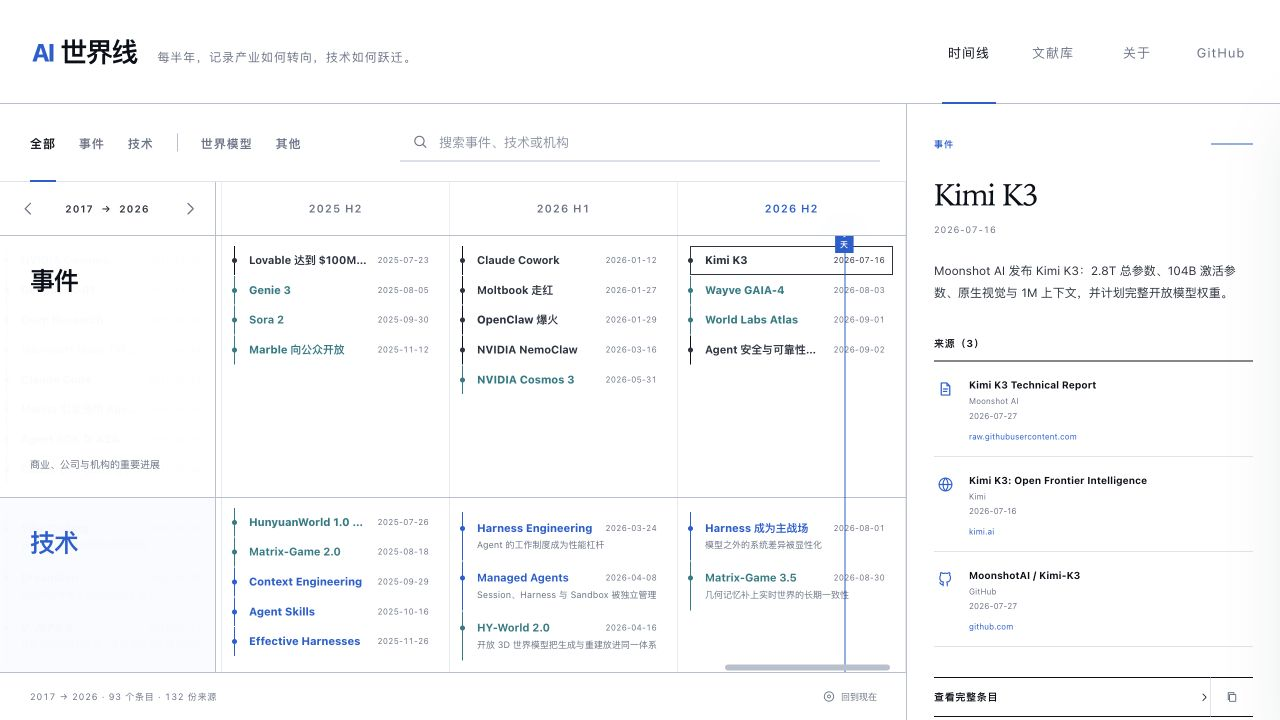
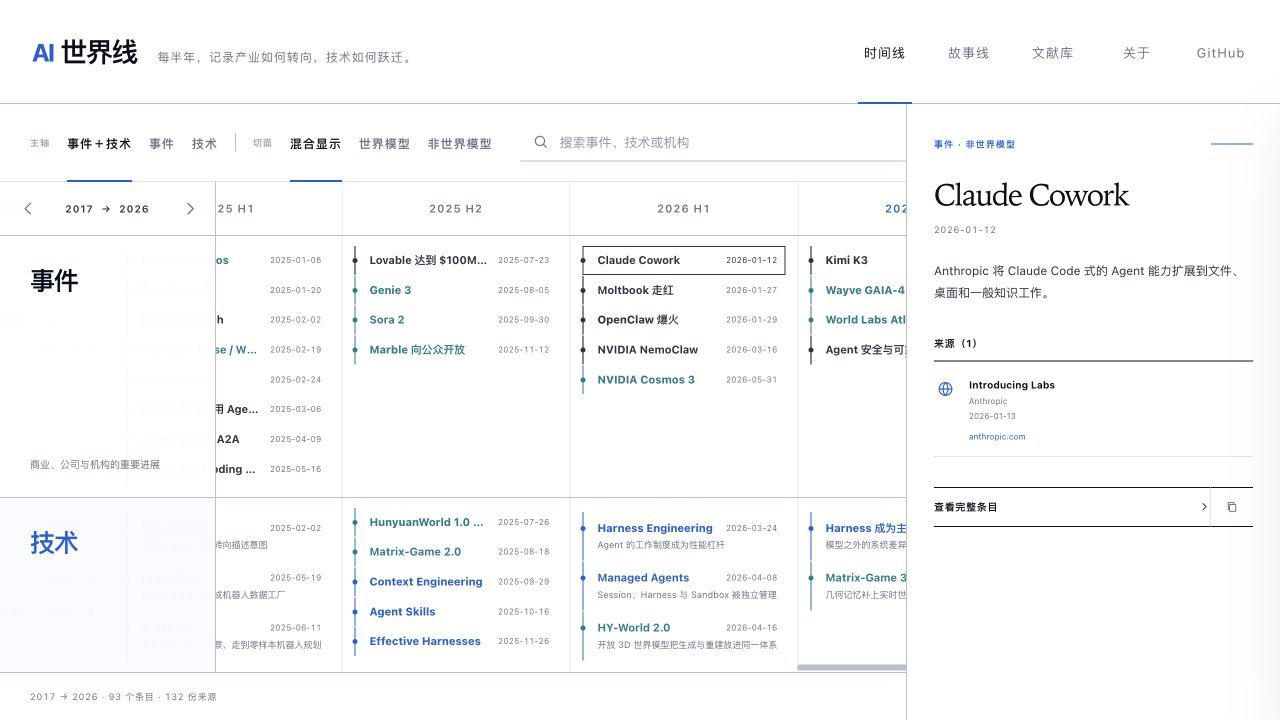
Fix timeline filter hierarchy and panel clipping

diff --git a/app.js b/app.js
@@ -35,17 +35,17 @@
   };
 
   const validLanes = new Set(["all", ...Object.keys(data.lanes)]);
-  const validTopics = new Set(["all", "not-world-model", ...Object.keys(data.topics)]);
+  const publicTopics = new Set(["all", "world-model", "not-world-model"]);
   const initialParams = new URLSearchParams(window.location.search);
   const requestedView = initialParams.get("view");
   const requestedTopic = initialParams.get("topic");
   const requestedEvent = data.events.find((event) => event.id === initialParams.get("event"));
   const requestedStory = data.storylines.find((storyline) => storyline.id === initialParams.get("story"));
   const initialLane = validLanes.has(requestedView) ? requestedView : "all";
-  const initialTopic = validTopics.has(requestedTopic)
+  const initialTopic = publicTopics.has(requestedTopic)
     ? requestedTopic
-    : Object.hasOwn(data.topics, requestedView)
-      ? requestedView
+    : requestedView === "world-model"
+      ? "world-model"
       : requestedView === "other" ? "not-world-model" : "all";
 
   const state = {
@@ -87,10 +87,10 @@
     const nextStory = data.storylines.find((storyline) => storyline.id === params.get("story"));
     state.route = getRoute();
     state.lane = validLanes.has(nextView) ? nextView : "all";
-    state.topic = validTopics.has(nextTopic)
+    state.topic = publicTopics.has(nextTopic)
       ? nextTopic
-      : Object.hasOwn(data.topics, nextView)
-        ? nextView
+      : nextView === "world-model"
+        ? "world-model"
         : nextView === "other" ? "not-world-model" : "all";
     state.query = params.get("q") || "";
     if (nextEvent) state.selectedId = nextEvent.id;
@@ -158,7 +158,7 @@
   }
 
   function topicLabels(event) {
-    return (event.topics || []).map((topicId) => data.topics[topicId]?.label).filter(Boolean);
+    return [eventHasTopic(event, "world-model") ? "世界模型" : "非世界模型"];
   }
 
   function eventMatches(event, query = state.query) {
@@ -214,8 +214,10 @@
       <section class="timeline-screen" aria-label="AI 世界线主时间轴">
         <div class="timeline-main">
           <div class="toolbar">
-            <div class="view-switch" role="group" aria-label="选择时间线视角">
-              ${renderLaneButton("all", "全部")}${renderLaneButton("event", "事件")}${renderLaneButton("tech", "技术")}<span class="view-divider" role="separator" aria-hidden="true"></span>${Object.entries(data.topics).map(([topicId, topic]) => renderTopicButton(topicId, topic.label)).join("")}${renderTopicButton("not-world-model", "非世界模型")}
+            <div class="view-switch" aria-label="筛选时间线">
+              <div class="filter-group" role="group" aria-label="选择主轴"><span class="filter-label">主轴</span>${renderLaneButton("all", "事件＋技术")}${renderLaneButton("event", "事件")}${renderLaneButton("tech", "技术")}</div>
+              <span class="view-divider" role="separator" aria-hidden="true"></span>
+              <div class="filter-group" role="group" aria-label="选择专题切面"><span class="filter-label">切面</span>${renderTopicButton("all", "混合显示")}${renderTopicButton("world-model", "世界模型")}${renderTopicButton("not-world-model", "非世界模型")}</div>
             </div>
             <label class="search-box">${icons.search}<input id="timeline-search" type="search" value="${escapeAttr(state.query)}" placeholder="搜索事件、技术或机构" autocomplete="off" /></label>
           </div>
@@ -237,7 +239,8 @@
 
   function renderTopicButton(key, label) {
     const active = state.topic === key;
-    return `<button class="view-button ${active ? "is-active" : ""}" type="button" data-topic="${key}" aria-pressed="${active}" title="${active ? "再次点击取消此切面" : `只看${escapeAttr(label)}`}">${escapeHTML(label)}</button>`;
+    const title = key === "all" ? "同时显示世界模型与非世界模型" : active ? "再次点击返回混合显示" : `只看${escapeAttr(label)}`;
+    return `<button class="view-button ${active ? "is-active" : ""}" type="button" data-topic="${key}" aria-pressed="${active}" title="${title}">${escapeHTML(label)}</button>`;
   }
 
   function renderDesktopBoard() {
@@ -311,7 +314,7 @@
 
   function bindTimelineEvents() {
     document.querySelectorAll("[data-lane]").forEach((button) => button.addEventListener("click", () => { state.lane = button.dataset.lane; state.drawerOpen = false; syncSelectionToVisibleEvents(); state.timelineHasPosition = true; writeLocationState({ historyMode: "push", open: false }); renderTimeline(); }));
-    document.querySelectorAll("[data-topic]").forEach((button) => button.addEventListener("click", () => { state.topic = state.topic === button.dataset.topic ? "all" : button.dataset.topic; state.drawerOpen = false; syncSelectionToVisibleEvents(); state.timelineHasPosition = true; writeLocationState({ historyMode: "push", open: false }); renderTimeline(); }));
+    document.querySelectorAll("[data-topic]").forEach((button) => button.addEventListener("click", () => { state.topic = button.dataset.topic === "all" || state.topic === button.dataset.topic ? "all" : button.dataset.topic; state.drawerOpen = false; syncSelectionToVisibleEvents(); state.timelineHasPosition = true; writeLocationState({ historyMode: "push", open: false }); renderTimeline(); }));
     document.querySelector("#timeline-search")?.addEventListener("input", (event) => { state.query = event.target.value; state.drawerOpen = false; syncSelectionToVisibleEvents(); state.timelineHasPosition = true; writeLocationState({ open: false }); renderTimeline(); const search = document.querySelector("#timeline-search"); search?.focus(); search?.setSelectionRange(state.query.length, state.query.length); });
     document.querySelectorAll("[data-event-id]").forEach((button) => button.addEventListener("click", () => { state.selectedId = button.dataset.eventId; state.drawerOpen = window.innerWidth <= 1050; state.timelineHasPosition = true; writeLocationState({ historyMode: "push" }); renderTimeline(); }));
     bindSharedActions();
@@ -449,7 +452,7 @@
   }
 
   function renderAbout() {
-    app.innerHTML = `<section class="about-screen"><header class="page-head"><h1>关于这条线</h1><p>v${escapeHTML(data.meta.version)} · 更新于 ${escapeHTML(data.meta.updatedAt)}。这是一份持续编辑的研究索引，不是宣称完整的 AI 历史。</p></header><div class="about-grid"><div class="about-lead">事件记录产业如何转向。<br>技术记录能力为什么跃迁。</div><div class="about-content"><section><h2>两条主轴</h2><p><strong>事件</strong>收录商业、公司、机构和现象级产品转折；<strong>技术</strong>收录论文、架构、协议、实验室与开源社区的突破。原来的理念并入技术，机构并入事件。</p></section><section><h2>可叠加切面</h2><p>世界模型、Agent 软件与 MoE 都是横跨两条主轴的专题标签。同一个条目可以同时属于多个切面；筛选只是重新观察同一段历史，不会制造互相隔离的第三条轴。</p></section><section><h2>故事线</h2><p>故事线从已有事件中选出关键节点，补上阶段与因果关系。它不增加新闻数量，而是解释能力、产品和基础设施为什么沿着某条路径发生变化。</p></section><section><h2>怎样更新</h2><p>在 <code>data/timeline.json</code> 中追加半年和条目，运行数据生成与校验，再提交变更。每条记录写清“发生了什么 / 为什么重要 / 改变了什么”，并至少附一份论文全文或官方来源。</p></section><section><h2>开放共建</h2><p>项目在 <a href="https://github.com/aprilwang2024/ai-worldline" target="_blank" rel="noopener noreferrer">GitHub</a> 上开放代码、数据与编辑规则。可以提交新事件、补充原始来源或发起事实纠错。</p></section></div></div></section>`;
+    app.innerHTML = `<section class="about-screen"><header class="page-head"><h1>关于这条线</h1><p>v${escapeHTML(data.meta.version)} · 更新于 ${escapeHTML(data.meta.updatedAt)}。这是一份持续编辑的研究索引，不是宣称完整的 AI 历史。</p></header><div class="about-grid"><div class="about-lead">事件记录产业如何转向。<br>技术记录能力为什么跃迁。</div><div class="about-content"><section><h2>两条主轴</h2><p><strong>事件</strong>收录商业、公司、机构和现象级产品转折；<strong>技术</strong>收录论文、架构、协议、实验室与开源社区的突破。原来的理念并入技术，机构并入事件。</p></section><section><h2>一个切面</h2><p><strong>世界模型 / 非世界模型</strong>是横跨两条主轴的专题切面。默认混合显示完整历史，也可以单独观察其中一侧；它不会被误画成互相隔离的第三条轴。</p></section><section><h2>故事线</h2><p>故事线从已有事件中选出关键节点，补上阶段与因果关系。它不增加新闻数量，而是解释能力、产品和基础设施为什么沿着某条路径发生变化。</p></section><section><h2>怎样更新</h2><p>在 <code>data/timeline.json</code> 中追加半年和条目，运行数据生成与校验，再提交变更。每条记录写清“发生了什么 / 为什么重要 / 改变了什么”，并至少附一份论文全文或官方来源。</p></section><section><h2>开放共建</h2><p>项目在 <a href="https://github.com/aprilwang2024/ai-worldline" target="_blank" rel="noopener noreferrer">GitHub</a> 上开放代码、数据与编辑规则。可以提交新事件、补充原始来源或发起事实纠错。</p></section></div></div></section>`;
   }
 
   document.querySelectorAll("[data-route]").forEach((button) => button.addEventListener("click", () => {

diff --git a/styles.css b/styles.css
@@ -161,6 +161,7 @@ svg {
   grid-template-rows: 78px minmax(0, 1fr) 48px;
   min-width: 0;
   min-height: 0;
+  overflow: hidden;
 }
 
 .toolbar {
@@ -173,7 +174,18 @@ svg {
   background: var(--white);
 }
 
-.view-switch { display: flex; align-items: stretch; align-self: stretch; gap: 23px; }
+.view-switch { display: flex; min-width: 0; align-items: stretch; align-self: stretch; gap: 17px; }
+
+.filter-group { display: flex; min-width: max-content; align-items: stretch; gap: 17px; }
+
+.filter-label {
+  align-self: center;
+  color: #9aa3b1;
+  font-size: 9px;
+  font-weight: 650;
+  letter-spacing: 0.12em;
+  white-space: nowrap;
+}
 
 .view-divider {
   align-self: center;
@@ -197,8 +209,6 @@ svg {
 .view-button:hover, .view-button.is-active { color: var(--ink); }
 .view-button[data-topic="world-model"].is-active { color: var(--teal); }
 .view-button[data-topic="world-model"].is-active::after { background: var(--teal); }
-.view-button[data-topic="moe"].is-active { color: #6657c8; }
-.view-button[data-topic="moe"].is-active::after { background: #6657c8; }
 
 .search-box {
   display: flex;
@@ -473,6 +483,8 @@ svg {
 
 /* Source pane */
 .source-panel {
+  position: relative;
+  z-index: 30;
   min-width: 0;
   min-height: 0;
   overflow: hidden auto;
@@ -1000,7 +1012,7 @@ svg {
   .site-header { padding: 0 25px; }
   .brand-sub { display: none; }
   .toolbar { gap: 20px; padding-right: 20px; padding-left: 24px; }
-  .view-switch { gap: 15px; }
+  .view-switch, .filter-group { gap: 13px; }
   .view-button { font-size: 11px; }
   .source-panel-inner { padding-right: 23px; padding-left: 23px; }
 }
@@ -1015,7 +1027,7 @@ svg {
   :root { --source-w: 292px; --label-w: 184px; --period-w: 208px; }
   .primary-nav { gap: 19px; }
   .timeline-main { grid-template-rows: 72px minmax(0, 1fr) 45px; }
-  .view-switch { gap: 14px; }
+  .view-switch, .filter-group { gap: 12px; }
   .search-box { width: min(32vw, 360px); }
   .source-panel-inner { padding: 26px 18px 30px; }
   .selection-heading { font-size: 29px; }
@@ -1086,10 +1098,12 @@ svg {
   .view-switch {
     width: 100%;
     height: 53px;
-    gap: 17px;
+    gap: 16px;
     overflow-x: auto;
     scrollbar-width: none;
   }
+
+  .filter-group { gap: 16px; }
 
   .view-switch::-webkit-scrollbar { display: none; }
   .view-button { flex: 0 0 auto; font-size: 11px; }

diff --git a/index.html b/index.html
@@ -22,7 +22,7 @@
     <link rel="canonical" href="https://aprilwang2024.github.io/ai-worldline/" />
     <link rel="icon" href="./assets/favicon.svg" type="image/svg+xml" />
     <title>AI 世界线</title>
-    <link rel="stylesheet" href="./styles.css?v=1.1.0-3" />
+    <link rel="stylesheet" href="./styles.css?v=1.1.1" />
   </head>
   <body>
     <div class="paper-grain" aria-hidden="true"></div>
@@ -69,7 +69,7 @@
     <main id="app" tabindex="-1"></main>
 
     <div id="toast" class="toast" role="status" aria-live="polite"></div>
-    <script src="./timeline-data.js?v=1.1.0-3"></script>
-    <script src="./app.js?v=1.1.0-3"></script>
+    <script src="./timeline-data.js?v=1.1.1"></script>
+    <script src="./app.js?v=1.1.1"></script>
   </body>
 </html>

diff --git a/timeline-data.js b/timeline-data.js
@@ -7,7 +7,7 @@ window.AI_WORLDLINE_DATA = {
   "$schema": "./schema.json",
   "meta": {
     "title": "AI 世界线",
-    "version": "1.1.0",
+    "version": "1.1.1",
     "updatedAt": "2026-09-02",
     "currentPeriod": "2026-H2",
     "scope": "A curated, source-first timeline of the modern foundation-model, agent, and world-model era."

diff --git a/README.md b/README.md
@@ -11,7 +11,7 @@ AI Worldline is an interactive, half-year-by-half-year map of the modern AI era.
 - **Events** — companies, institutions, launches, and moments that changed the market.
 - **Technology** — papers, architectures, research programs, and open-source breakthroughs that changed what was possible.
 
-Composable topics such as **world models**, **agentic software**, and **MoE** cut across both lanes. Three editorial storylines connect selected events into causal reading paths. Every entry explains what happened, why it mattered, what it changed, and links back to papers, code, or official announcements.
+The public timeline has one deliberate cross-cutting slice: **world models / non-world-models**. Three editorial storylines connect selected events into causal reading paths. Every entry explains what happened, why it mattered, what it changed, and links back to papers, code, or official announcements.
 
 ## Why this is different
 
@@ -21,7 +21,7 @@ Most AI timelines are either long lists or news archives. AI Worldline is design
 - primary papers, full text, code, and official releases come first;
 - interpretation is separated into “what happened / why it mattered / what changed”;
 - filters reveal a theme without turning it into a separate, misleading history;
-- one entry can belong to multiple cross-cutting topics;
+- the world-model slice can be viewed on its own without becoming a misleading third lane;
 - storylines reuse canonical events to explain phases and causal change;
 - unfinished periods can be marked as `watching` instead of being presented as settled fact.
 

diff --git a/EDITORIAL_POLICY.md b/EDITORIAL_POLICY.md
@@ -27,7 +27,7 @@ Every entry has one primary lane:
 - `event`: commercial, institutional, product, and adoption changes;
 - `tech`: research, architecture, infrastructure, protocol, and open-source breakthroughs.
 
-A topic such as `world-model`, `agentic-software`, or `moe` is a slice across both lanes. Entries may carry multiple topics. Topics do not become a third lane and do not imply a separate historical sequence.
+The public timeline currently exposes one slice across both lanes: `world-model` versus everything outside it. The canonical dataset can retain additional editorial tags for future research, but those tags should not become public filters without a clear reader need. A topic never becomes a third lane or implies a separate historical sequence.
 
 Storylines are curated causal readings of canonical events. They should reuse existing event IDs, divide the path into meaningful phases, and explain why one change made the next possible. They are not a second place to store events.
 

diff --git a/CHANGELOG.md b/CHANGELOG.md
@@ -2,6 +2,13 @@
 
 All material additions and corrections to AI Worldline are recorded here.
 
+## 1.1.1 — 2026-09-02
+
+- separated the timeline controls into a primary-lane group and a topic-slice group;
+- renamed the ambiguous “all” states to “event + technology” and “mixed view”;
+- simplified the public topic choices to world models and non-world-models;
+- fixed timeline content painting over the source panel at compact desktop widths.
+
 ## 1.1.0 — 2026-09-02
 
 - added three curated storylines that connect existing events into causal reading paths;
